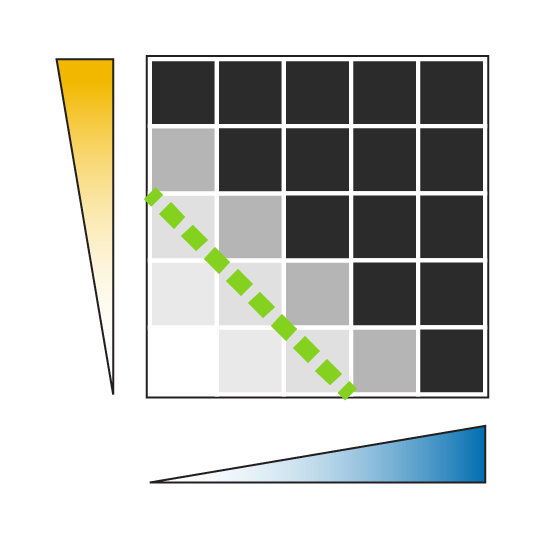
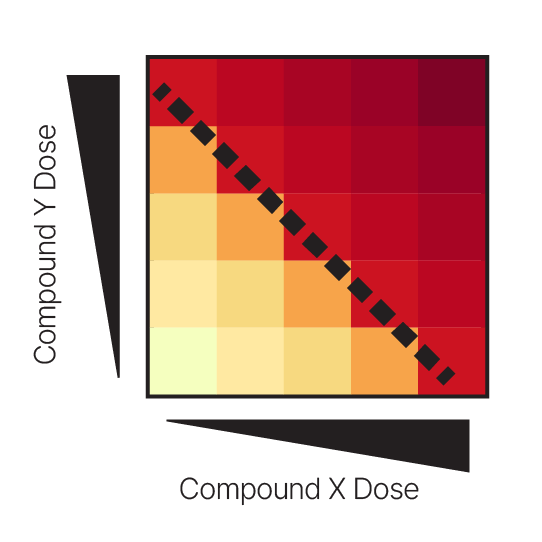
upload new graphics

diff --git a/src/views/CpsWhitePaper.vue b/src/views/CpsWhitePaper.vue
@@ -11,7 +11,8 @@
         <p class="text-body-1">Combination therapies are routinely used in cancer care, and patient cure is almost never achieved by monotherapy1. However, which combinations will benefit specific cancer patients is largely unknown. While many studies have used cell culture and animal model systems to characterize combination effects, the sheer number of clinical, investigational, and tool anticancer agents, coupled with the diversity and heterogeneity of cancer, precludes comprehensive investigation2–5. Accordingly, most such studies are restricted to a small number of drugs or a restricted set of cancer contexts. Methods to address these limitations, such as those that enable measurement of candidate combinations in many cell lines simultaneously, would greatly increase the potential scale of combinations research, generating preclinical evidence that may help identify candidate combinations for clinical trials.
         </p>
         <h3>The PRISM Combination Assay</h3>
-        <v-row>
+        <img style="width:100%;" :src="imgPath + 'main-graphic.png'">
+        <!-- <v-row>
           <v-col>
             <ImageCard min-height="3em" title="900+ cancer cell lines"  :img="imgPath + 'PRISM_assay_cps_cell lines.png'"/>
           </v-col>
@@ -32,8 +33,9 @@
           <v-col>
             <ImageCard min-height="3em" title="Identify candidates for clinical trials" :img="imgPath + 'PRISM_assay_cps_application.png'"/>
           </v-col>
-        </v-row>
+        </v-row> -->
       </PaperSection>
+
       <PaperSection title="Analysis of combination data">
         <p class="text-body-1">Experimental combinations are generally benchmarked by comparing the effects of two (or more) agents to the corresponding single-agent activities, using established metrics to describe the combined effects (e.g., independent action, additivity, synergy, antagonism)6. For example, the Bliss model assesses proportional cell killing, where under the null hypothesis (no interaction between two or more perturbations) viability effects are multiplicative7. The quantification and classification of combination effects may aid prioritization of combinations for additional investigation while also providing biological and mechanistic insights. For example, antagonistic combinations might be deprioritized from further study, while synergistic combinations may be useful in overcoming resistance8. Independent (or additive) combinations may be useful to combat inter- or intra-patient heterogeneity; this behavior is characteristic of many effective clinical combinations (and most curative combinations) described to date9,10. 
       </p>
@@ -55,7 +57,7 @@
         <br><br>
         For combination components with minimal differential viability effects, testing a single dose may represent the most efficient combinatorial design. By contrast, strong differential viability effects of one combination partner across cell lines supports the use of multiple doses; this approach also facilitates aggregation of the viability readout across doses (e.g., through fitting of dose-response curves). Where it is not possible to span the entire range of response to a given compound, it is recommended to focus on the lower end of the ideal concentration range (i.e., less cell viability effects) to facilitate identification of increased cell killing (e.g., additivity or synergy)–unless the experimental goal is to identify and characterize antagonistic combinations (e.g., drug rescue screens). 
         </p>
-       [GRAPHIC]
+        <img id="dose-selction-img" :src="imgPath + 'dose-selection.png'">
       </PaperSection>
       <PaperSection title="Results">
         <PaperSubSection title="Selection of test combinations">
@@ -313,4 +315,15 @@ export default {
 .card-title{
   font-size: 0.9em !important;
 }
+#dose-selction-img{
+    width: 60%;
+  }
+
+@media screen and (min-width: 200px) and (max-width: 768px) {
+  #dose-selction-img{
+    width: 100%;
+  }
+
+}
+
 </style>

diff --git a/src/views/2024_04_cps/ViabilityMatrixPlots.vue b/src/views/2024_04_cps/ViabilityMatrixPlots.vue
@@ -197,7 +197,7 @@ export default {
                 tooltipConfig: [
                   {label: config.xAxisTitle, field: "x"},
                   {label: config.yAxisTitle, field: "y"},
-                  {label: "Value", field: "c"}
+                  {label: "Cell lines killed (Viability < 0.3)", field: "c"}
                 ]
               }
             }
